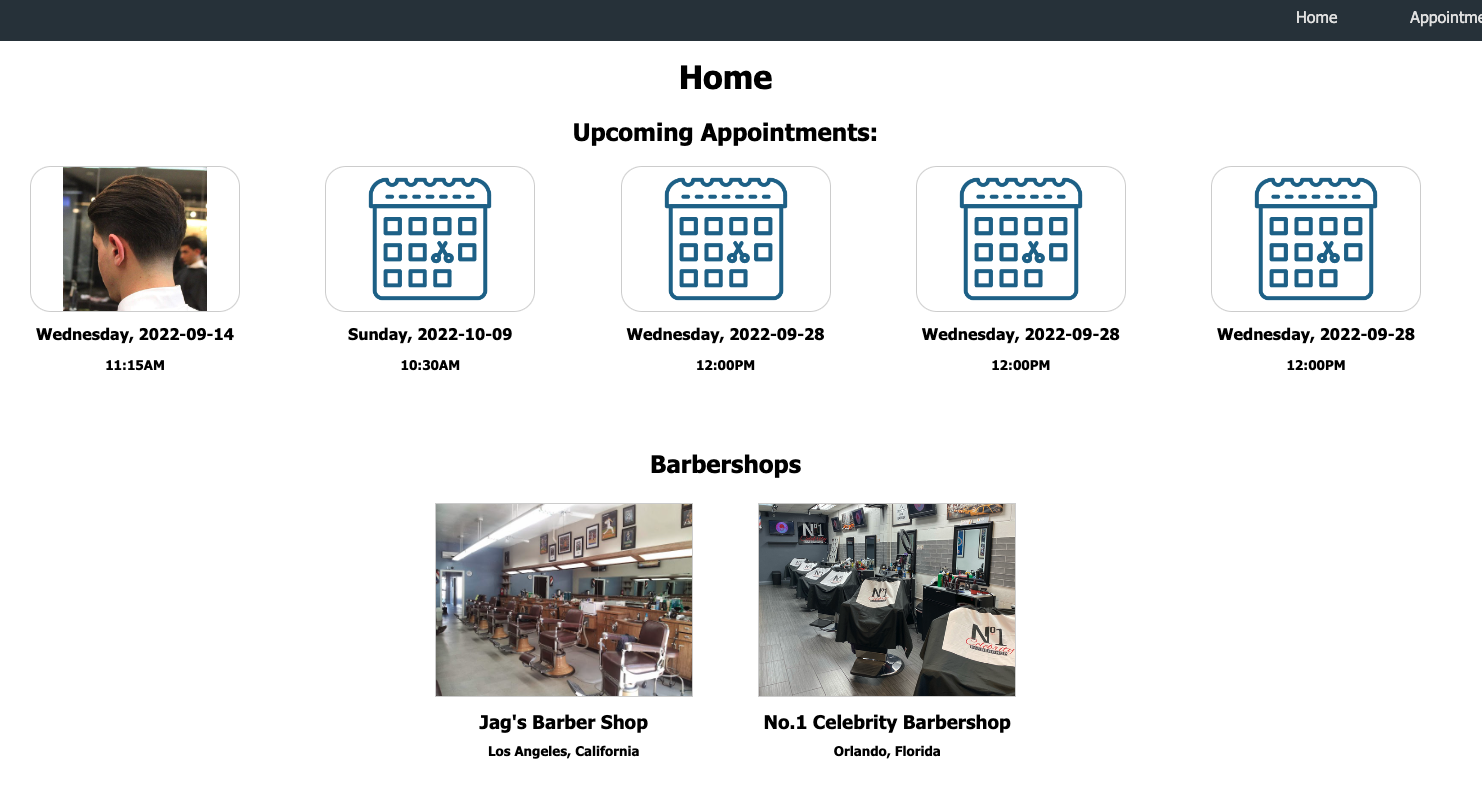
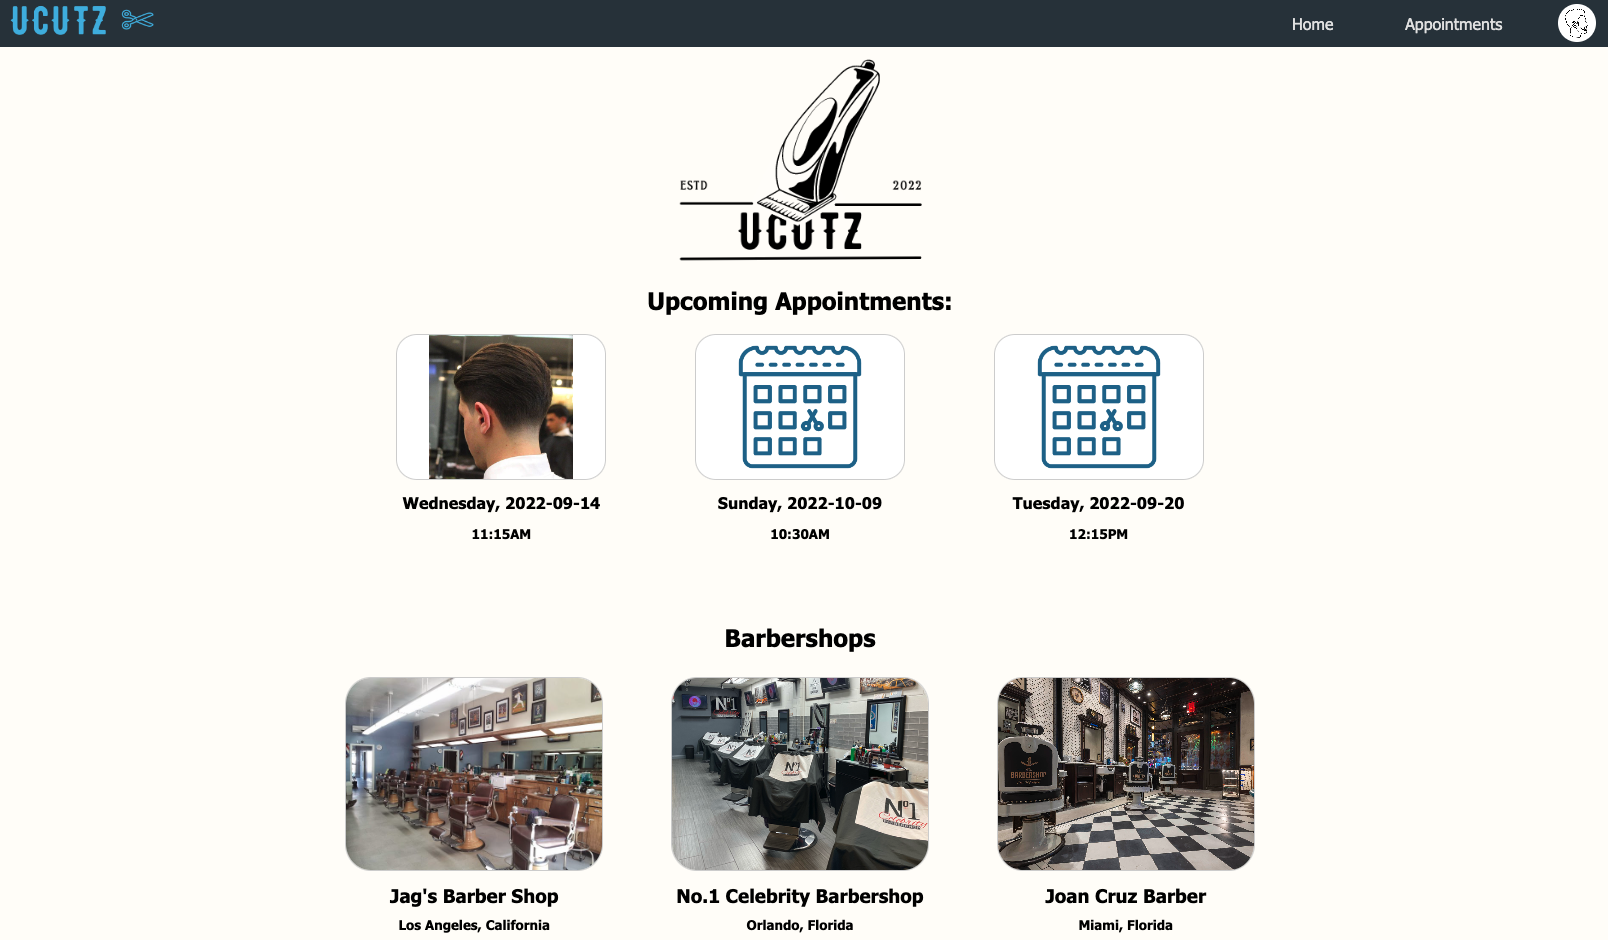
updated readme screenshots

diff --git a/src/pages/Home.js b/src/pages/Home.js
@@ -44,16 +44,6 @@ const Home = ({
   ) : (
     <div className="home-page-container">
       <img src="./assets/uCutz_logo.png" alt="logo" />
-      <img
-        className="colorss"
-        src="https://cdn.iconfinder.com/icons/4360445/4831702/512/raster.png?token=1663207387-YJpt%2FyPOcXTBgVChWJ9yGo0uIhuWNsvtvnNepj%2BOF%2Fc%3D"
-        alt="logo"
-      />
-      <img
-        className="colorss2"
-        src="https://cdn.iconfinder.com/icons/4360445/4831702/512/raster.png?token=1663207387-YJpt%2FyPOcXTBgVChWJ9yGo0uIhuWNsvtvnNepj%2BOF%2Fc%3D"
-        alt="logo"
-      />
       <section className="page" id="barbershop-list">
         <h2>Barbershops</h2>
         <div className="flex-items">

diff --git a/src/pages/BarberProfile.js b/src/pages/BarberProfile.js
@@ -105,7 +105,7 @@ const BarberProfile = ({
       <div className="user-profile-container">
         <div className="profile-img-grid">
           <img src={formState.barber_image} alt="user image" />
-          <h4>Add your photo to allow your barber to better serve you</h4>
+          <h4>Add your photo to allow your clients to better recognize you</h4>
         </div>
         <form onSubmit={handleSubmit} className="user-profile-form">
           <h4>Profile Photo:</h4>

diff --git a/src/App.css b/src/App.css
@@ -41,17 +41,6 @@ body {
   color: rgb(93 201 227);
 }
 
-.colorss {
-  position: fixed;
-  right: 23%;
-}
-
-.colorss2 {
-  position: fixed;
-  left: 23%;
-  transform: scaleX(-1);
-}
-
 .logo-nav {
   height: 5vh;
 }
@@ -376,6 +365,7 @@ body {
   object-fit: cover;
   border: 3px groove rgb(147, 210, 233);
   box-shadow: 0 10px 30px -4px rgba(0, 0, 0, 0.7);
+  background-color: white;
 }
 
 .profile-img-grid {

diff --git a/README.md b/README.md
@@ -34,7 +34,7 @@ uCutz provides a more efficient way to schedule your next haircut. As a customer
 
 <div style= "center">
     <pre>
-        <img src="/public/assets/homepage.png"  height="450">&nbsp;&nbsp;&nbsp;<img src="/public/assets/barber_avail.png" height="450">&nbsp;&nbsp;&nbsp;<img src="/public/assets/barbershop_page.png" height="450">&nbsp;&nbsp;&nbsp;
+        <img src="/public/assets/homepage.png"  height="450">&nbsp;&nbsp;&nbsp;<img src="/public/assets/barbershop_details.png" height="450">&nbsp;&nbsp;&nbsp;<img src="/public/assets/barber_availability.png" height="450">&nbsp;&nbsp;&nbsp;<img src="/public/assets/barber_appointmetns.png" height="450">&nbsp;&nbsp;&nbsp;<img src="/public/assets/barber_profile.png" height="450">&nbsp;&nbsp;&nbsp;
     </pre>
 </div>
 
